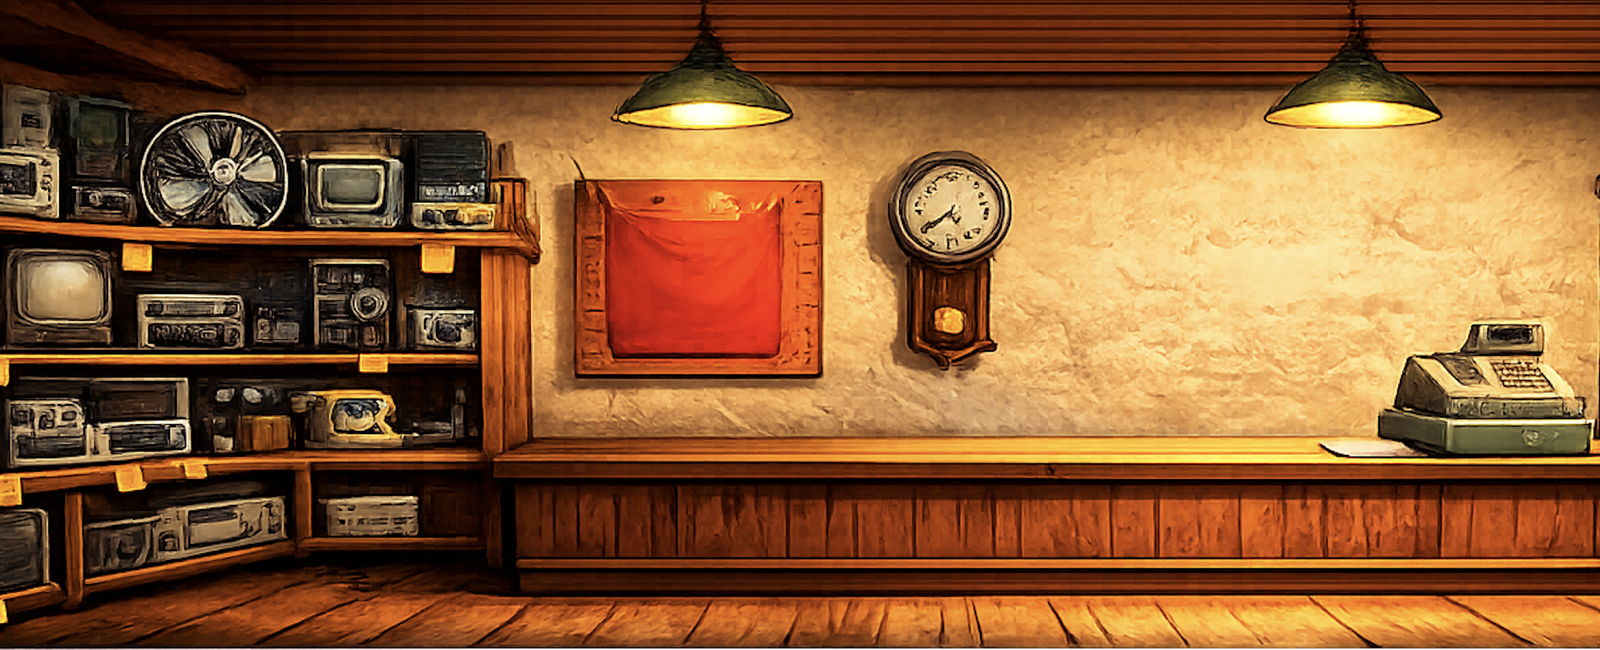
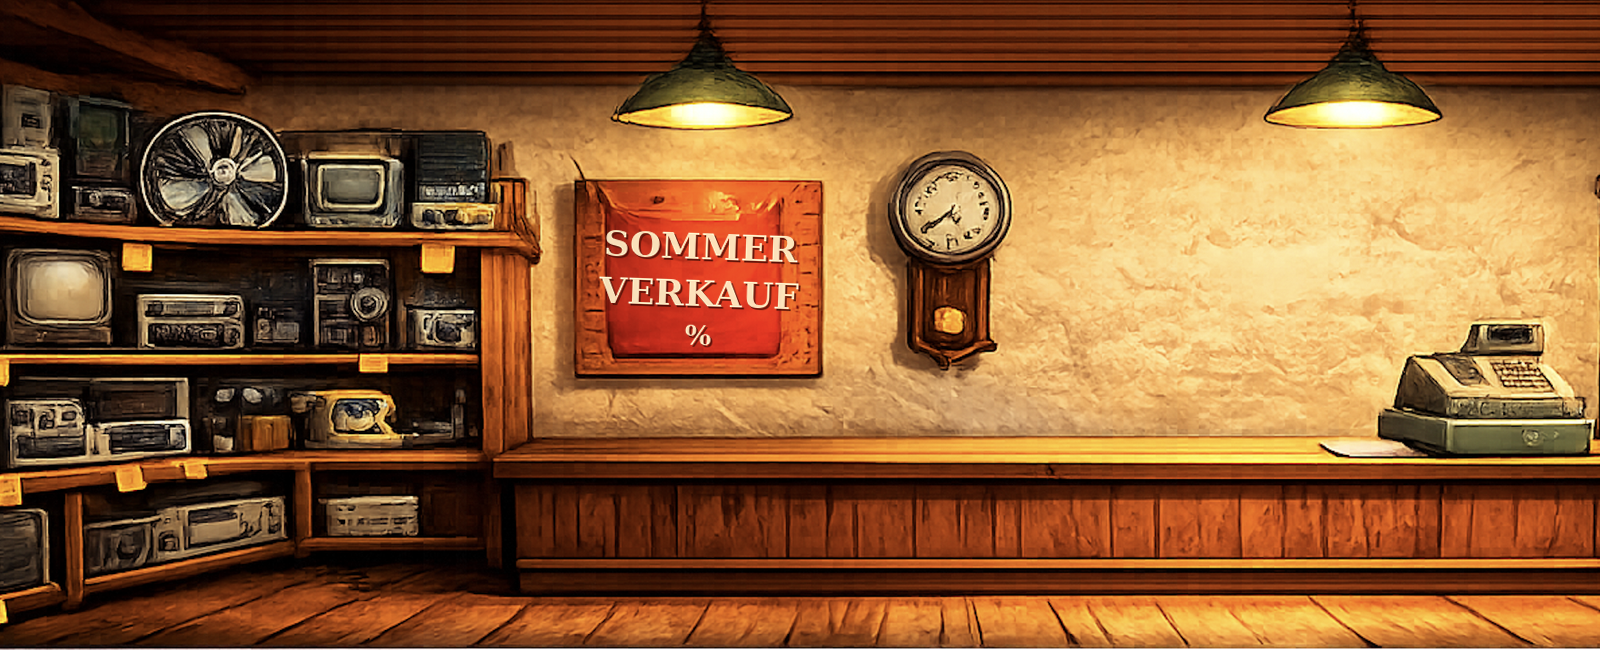
Kauf-Politur: Meier tiefer+groesser, Sommerverkauf-Plakat, Freitagabend-Dramaturgie, v8

Changed region(s): [[0.375, 0.3385, 0.5, 0.5231]]

diff --git a/kaufvertrag_demo.html b/kaufvertrag_demo.html
@@ -447,7 +447,7 @@ front:[
     a:{ anschauen:'Ein Gebüsch am Laternenfuss. Da raschelt doch was …?' } },
 ],
 laden:[
-  { id:'meier', name:'Herr Meier', x:430,y:115,w:100,h:62,
+  { id:'meier', name:'Herr Meier', x:418,y:110,w:126,h:74,
     a:{ redemit:'Herr Meier hört zu – <b>nutzen Sie die Gesprächsoptionen unten.</b>',
         anschauen:'Herr Meier, Inhaber seit 1998. Brille, Weste, Ellbogen auf der Theke – und das OR vermutlich auswendig im Kopf.',
         nimm:'Herrn Meier kann man nicht mitnehmen. Er ist quasi Inventar.' } },
@@ -833,7 +833,7 @@ ende: pxSzene('#000010', (R,D)=>{
    Liegen im Repo PNGs mit diesen Namen, werden sie automatisch
    statt der Pixel-Programme geladen. Fehlen sie: Pixel-Fallback.
    ===================================================== */
-const BILD_VERSION = '7';
+const BILD_VERSION = '8';
 function vurl(u){ return u + '?v=' + BILD_VERSION; }
 const SZENEN_BILDER = {
   front:'kaufvertrag_front.png',  laden:'kaufvertrag_laden.png',
@@ -887,7 +887,7 @@ function kaeufer(){ return KAEUFER[zustand.kaeuferin || 'm']; }
 
 const SPRITES = {
   laden: [
-    { id:'meier', frames:null, x:433, y:119, w:95, h:53 },
+    { id:'meier', frames:null, x:425, y:115, w:112, h:63 },
     { id:'alex',  frames:['kaufvertrag_alex_0.png','kaufvertrag_alex_1.png','kaufvertrag_alex_2.png'],
       x:238, y:132, w:94, h:128 },
   ],
@@ -1304,21 +1304,21 @@ szeneEl.addEventListener('click', (ev)=>{
 const KNOTEN = {
 
 /* ---------- AKT 0 ---------- */
-start:{ art:'produktwahl', szene:'front', sprecher:'ERZÄHLER',
-  text:'Aarau, ein Samstagvormittag. Sie – Alex, Lernende/r im 2. Lehrjahr – stehen vor «Meier &amp; Co.», dem Occasions- und Elektrofachgeschäft an der Vorderen Vorstadt Nummer 12. Im Schaufenster leuchtet der rote Aktionsstern. Sie haben etwas gespart und wollen sich heute etwas leisten. <b>Was kaufen Sie?</b>' },
+start:{ art:'produktwahl', szene:'discount', sprecher:'ERZÄHLER',
+  text:'Aarau, Freitagabend. Sie – Alex, Lernende/r im 2. Lehrjahr – sind auf dem Nachhauseweg zum Bahnhof, als unten an der Bahnhofstrasse der grelle «MEGA-DISCOUNT» leuchtet. Sie haben etwas gespart und wollen sich etwas leisten. <b>Was darf es sein?</b>' },
 
 /* ---------- AKT 0b: Der Preisvergleich ---------- */
-discount:{ szene:'discount', sprecher:'ERZÄHLER',
-  text:'Kleiner Umweg vorab: Unten an der Bahnhofstrasse, im grellen «MEGA-DISCOUNT», steht {P} fabrikneu im Regal – Preisschild: <b>{NEUPREIS}</b>. Sie schlucken. Dann fällt Ihnen das Schaufenster von Meier &amp; Co. ein: dasselbe Modell, geprüft, als Occasion für <b>{PREIS}</b>. Was tun Sie?',
+discount:{ szene:'front', sprecher:'ERZÄHLER',
+  text:'Im Discounter-Regal: {P}, fabrikneu – Preisschild: <b>{NEUPREIS}</b>. Sie schlucken und fahren erst einmal heim. Samstagvormittag, Altstadt: Im Schaufenster von «Meier &amp; Co.», dem Occasions- und Elektrofachgeschäft an der Vorderen Vorstadt Nummer 12, leuchtet der rote Aktionsstern – dasselbe Modell, geprüft, als Occasion für <b>{PREIS}</b>. Was tun Sie?',
   optionen:[
-    { t:'Zur Occasion – gleiche Funktion, deutlich kleinerer Preis.', rq:2,
+    { t:'Hinein zu Meier &amp; Co. – gleiche Funktion, deutlich kleinerer Preis.', rq:2,
       fb:'Budgetbewusst gedacht. Und wichtig: Der <b>Occasionskauf ist ein ganz normaler Kaufvertrag</b> – gleiche Regeln, gleiche Rechte, inklusive Gewährleistung.',
       ziel:'k1' },
-    { t:'Neu kaufen – Occasionen sind mir suspekt.', rq:1,
-      fb:'Ihr gutes Recht – aber Ihr Lehrlingslohn hebt beim Blick auf {NEUPREIS} mahnend die Augenbraue. Sie schlendern doch zu Meier &amp; Co.',
+    { t:'Zurück zum Discounter – Occasionen sind mir suspekt.', rq:1,
+      fb:'Ihr gutes Recht – aber Ihr Lehrlingslohn hebt beim Blick auf {NEUPREIS} mahnend die Augenbraue. Sie bleiben, wo Sie sind: bei Meier &amp; Co.',
       ziel:'k1' },
-    { t:'Eine Nacht darüber schlafen und Preise vergleichen.', rq:2,
-      fb:'Besonnen! Impulskäufe sind der Feind jedes Budgets. Am nächsten Morgen steht fest: Die geprüfte Occasion gewinnt.',
+    { t:'Nochmals eine Nacht darüber schlafen.', rq:2,
+      fb:'Besonnen! Impulskäufe sind der Feind jedes Budgets. Aber genau das haben Sie letzte Nacht schon getan – der Vergleich ist gemacht, die geprüfte Occasion gewinnt.',
       ziel:'k1' },
     { t:'Neu kaufen – auf Kredit. Dafür gibt es doch Kleinkredite.', rq:0,
       fb:'<b>Vorsicht, Konsumkredit!</b> Zinsen von 10 Prozent und mehr machen den Neupreis erst richtig teuer – und das Konsumkreditgesetz verlangt nicht umsonst eine Budgetprüfung. Sie verwerfen die Idee. Schnell.',

diff --git a/kaufvertrag_fd642d69.html b/kaufvertrag_fd642d69.html
@@ -448,7 +448,7 @@ front:[
     a:{ anschauen:'Ein Gebüsch am Laternenfuss. Da raschelt doch was …?' } },
 ],
 laden:[
-  { id:'meier', name:'Herr Meier', x:430,y:115,w:100,h:62,
+  { id:'meier', name:'Herr Meier', x:418,y:110,w:126,h:74,
     a:{ redemit:'Herr Meier hört zu – <b>nutzen Sie die Gesprächsoptionen unten.</b>',
         anschauen:'Herr Meier, Inhaber seit 1998. Brille, Weste, Ellbogen auf der Theke – und das OR vermutlich auswendig im Kopf.',
         nimm:'Herrn Meier kann man nicht mitnehmen. Er ist quasi Inventar.' } },
@@ -834,7 +834,7 @@ ende: pxSzene('#000010', (R,D)=>{
    Liegen im Repo PNGs mit diesen Namen, werden sie automatisch
    statt der Pixel-Programme geladen. Fehlen sie: Pixel-Fallback.
    ===================================================== */
-const BILD_VERSION = '7';
+const BILD_VERSION = '8';
 function vurl(u){ return u + '?v=' + BILD_VERSION; }
 const SZENEN_BILDER = {
   front:'kaufvertrag_front.png',  laden:'kaufvertrag_laden.png',
@@ -888,7 +888,7 @@ function kaeufer(){ return KAEUFER[zustand.kaeuferin || 'm']; }
 
 const SPRITES = {
   laden: [
-    { id:'meier', frames:null, x:433, y:119, w:95, h:53 },
+    { id:'meier', frames:null, x:425, y:115, w:112, h:63 },
     { id:'alex',  frames:['kaufvertrag_alex_0.png','kaufvertrag_alex_1.png','kaufvertrag_alex_2.png'],
       x:238, y:132, w:94, h:128 },
   ],
@@ -1305,21 +1305,21 @@ szeneEl.addEventListener('click', (ev)=>{
 const KNOTEN = {
 
 /* ---------- AKT 0 ---------- */
-start:{ art:'produktwahl', szene:'front', sprecher:'ERZÄHLER',
-  text:'Aarau, ein Samstagvormittag. Sie – Alex, Lernende/r im 2. Lehrjahr – stehen vor «Meier &amp; Co.», dem Occasions- und Elektrofachgeschäft an der Vorderen Vorstadt Nummer 12. Im Schaufenster leuchtet der rote Aktionsstern. Sie haben etwas gespart und wollen sich heute etwas leisten. <b>Was kaufen Sie?</b>' },
+start:{ art:'produktwahl', szene:'discount', sprecher:'ERZÄHLER',
+  text:'Aarau, Freitagabend. Sie – Alex, Lernende/r im 2. Lehrjahr – sind auf dem Nachhauseweg zum Bahnhof, als unten an der Bahnhofstrasse der grelle «MEGA-DISCOUNT» leuchtet. Sie haben etwas gespart und wollen sich etwas leisten. <b>Was darf es sein?</b>' },
 
 /* ---------- AKT 0b: Der Preisvergleich ---------- */
-discount:{ szene:'discount', sprecher:'ERZÄHLER',
-  text:'Kleiner Umweg vorab: Unten an der Bahnhofstrasse, im grellen «MEGA-DISCOUNT», steht {P} fabrikneu im Regal – Preisschild: <b>{NEUPREIS}</b>. Sie schlucken. Dann fällt Ihnen das Schaufenster von Meier &amp; Co. ein: dasselbe Modell, geprüft, als Occasion für <b>{PREIS}</b>. Was tun Sie?',
+discount:{ szene:'front', sprecher:'ERZÄHLER',
+  text:'Im Discounter-Regal: {P}, fabrikneu – Preisschild: <b>{NEUPREIS}</b>. Sie schlucken und fahren erst einmal heim. Samstagvormittag, Altstadt: Im Schaufenster von «Meier &amp; Co.», dem Occasions- und Elektrofachgeschäft an der Vorderen Vorstadt Nummer 12, leuchtet der rote Aktionsstern – dasselbe Modell, geprüft, als Occasion für <b>{PREIS}</b>. Was tun Sie?',
   optionen:[
-    { t:'Zur Occasion – gleiche Funktion, deutlich kleinerer Preis.', rq:2,
+    { t:'Hinein zu Meier &amp; Co. – gleiche Funktion, deutlich kleinerer Preis.', rq:2,
       fb:'Budgetbewusst gedacht. Und wichtig: Der <b>Occasionskauf ist ein ganz normaler Kaufvertrag</b> – gleiche Regeln, gleiche Rechte, inklusive Gewährleistung.',
       ziel:'k1' },
-    { t:'Neu kaufen – Occasionen sind mir suspekt.', rq:1,
-      fb:'Ihr gutes Recht – aber Ihr Lehrlingslohn hebt beim Blick auf {NEUPREIS} mahnend die Augenbraue. Sie schlendern doch zu Meier &amp; Co.',
+    { t:'Zurück zum Discounter – Occasionen sind mir suspekt.', rq:1,
+      fb:'Ihr gutes Recht – aber Ihr Lehrlingslohn hebt beim Blick auf {NEUPREIS} mahnend die Augenbraue. Sie bleiben, wo Sie sind: bei Meier &amp; Co.',
       ziel:'k1' },
-    { t:'Eine Nacht darüber schlafen und Preise vergleichen.', rq:2,
-      fb:'Besonnen! Impulskäufe sind der Feind jedes Budgets. Am nächsten Morgen steht fest: Die geprüfte Occasion gewinnt.',
+    { t:'Nochmals eine Nacht darüber schlafen.', rq:2,
+      fb:'Besonnen! Impulskäufe sind der Feind jedes Budgets. Aber genau das haben Sie letzte Nacht schon getan – der Vergleich ist gemacht, die geprüfte Occasion gewinnt.',
       ziel:'k1' },
     { t:'Neu kaufen – auf Kredit. Dafür gibt es doch Kleinkredite.', rq:0,
       fb:'<b>Vorsicht, Konsumkredit!</b> Zinsen von 10 Prozent und mehr machen den Neupreis erst richtig teuer – und das Konsumkreditgesetz verlangt nicht umsonst eine Budgetprüfung. Sie verwerfen die Idee. Schnell.',
